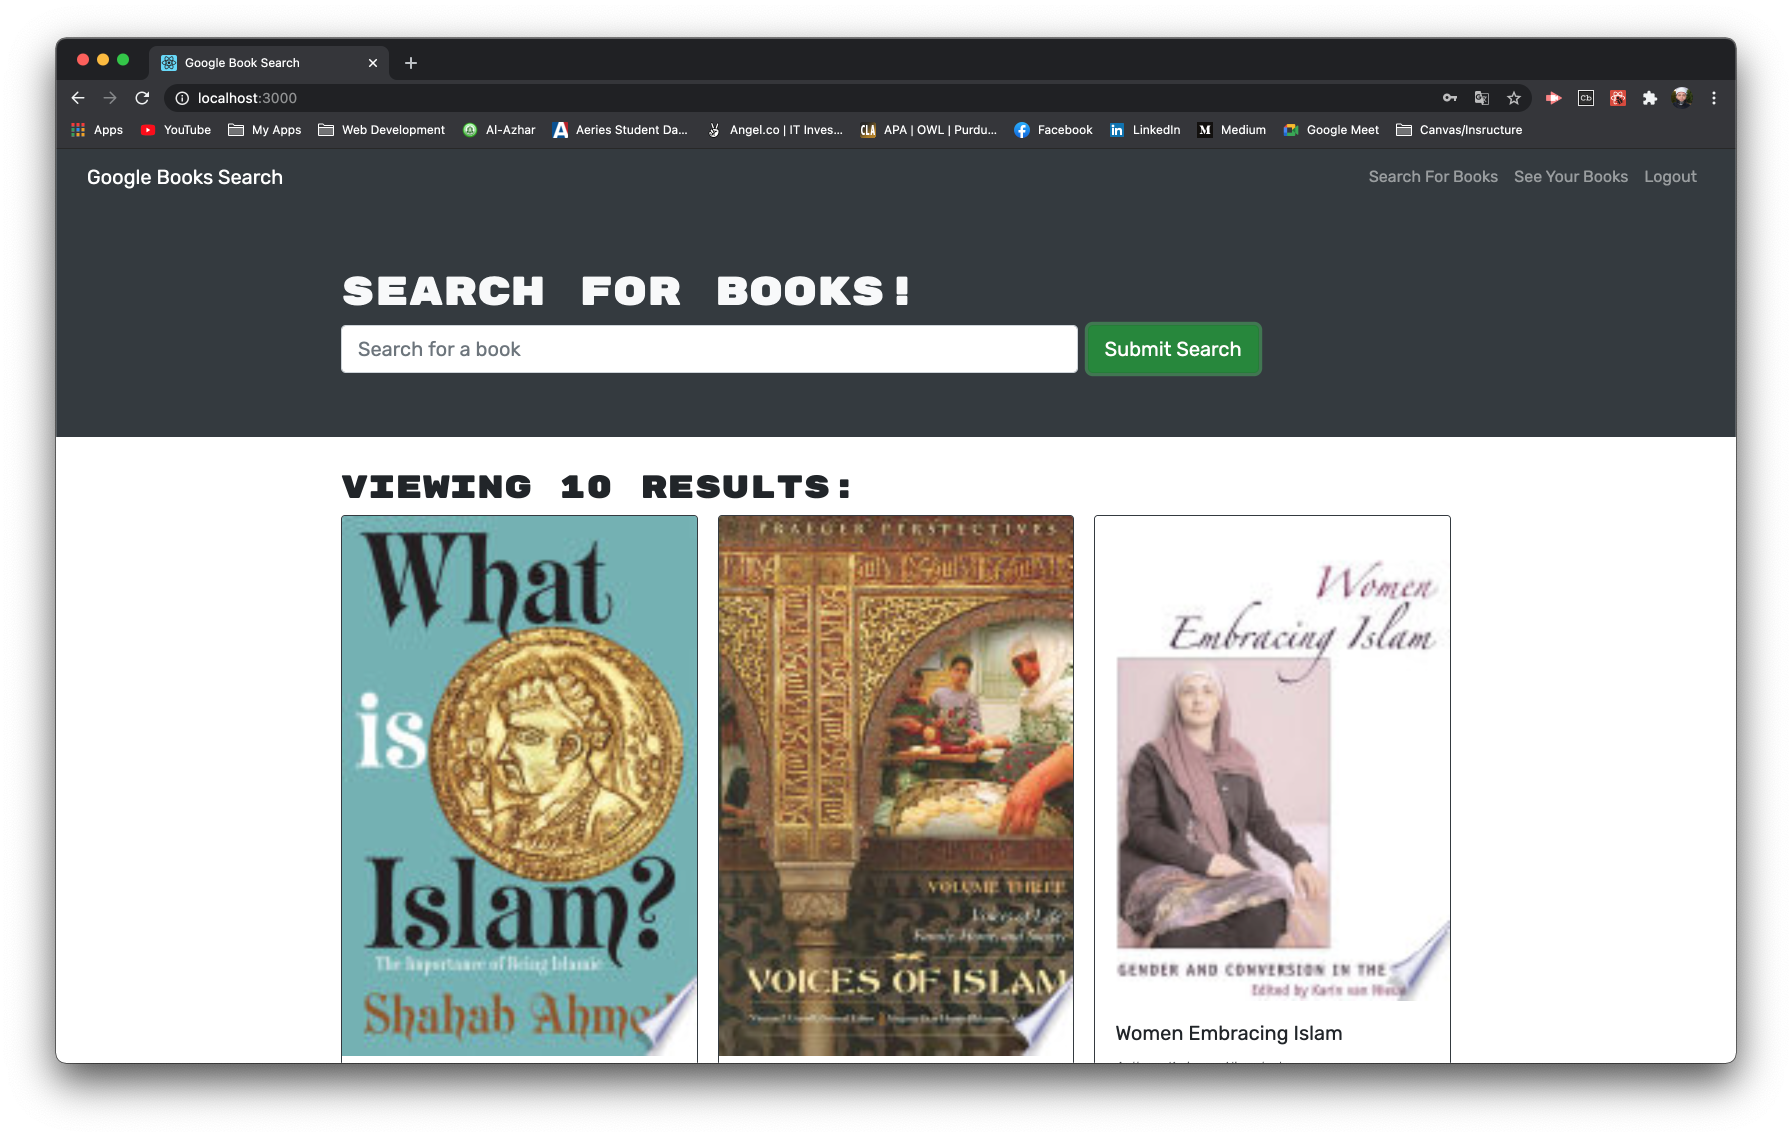
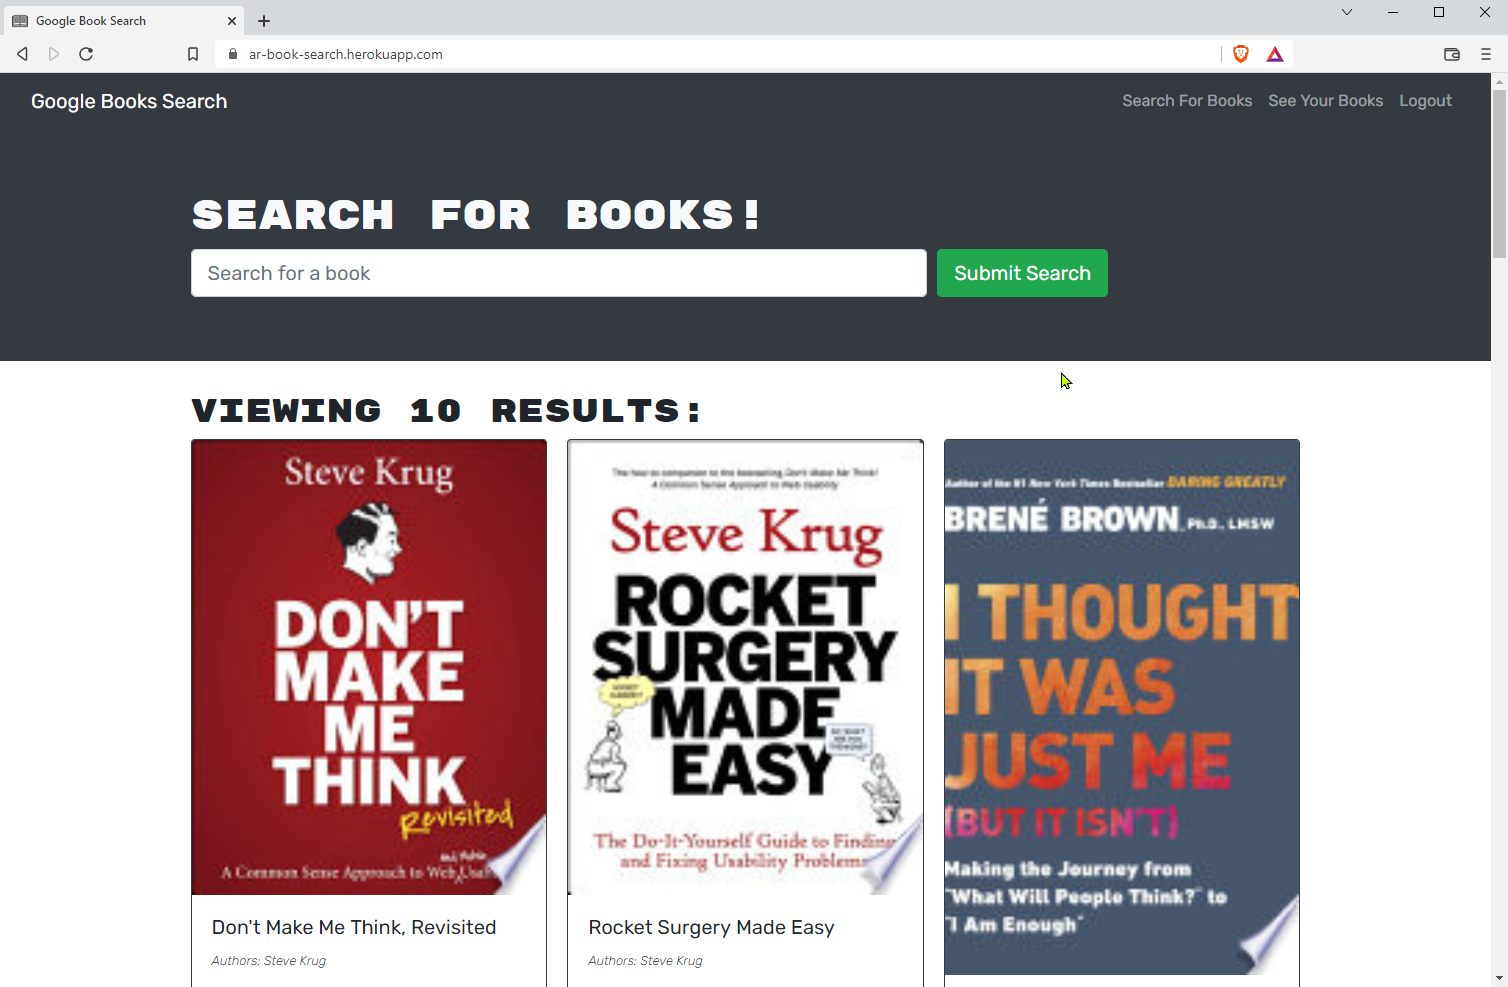
updated readme and screenshot

diff --git a/README.md b/README.md
@@ -18,7 +18,7 @@
 
 ## Deployment URL
 
-https://ucb-book-search-engine.herokuapp.com/.
+https://ar-book-search.herokuapp.com/
 
 ## Repo URL
 
